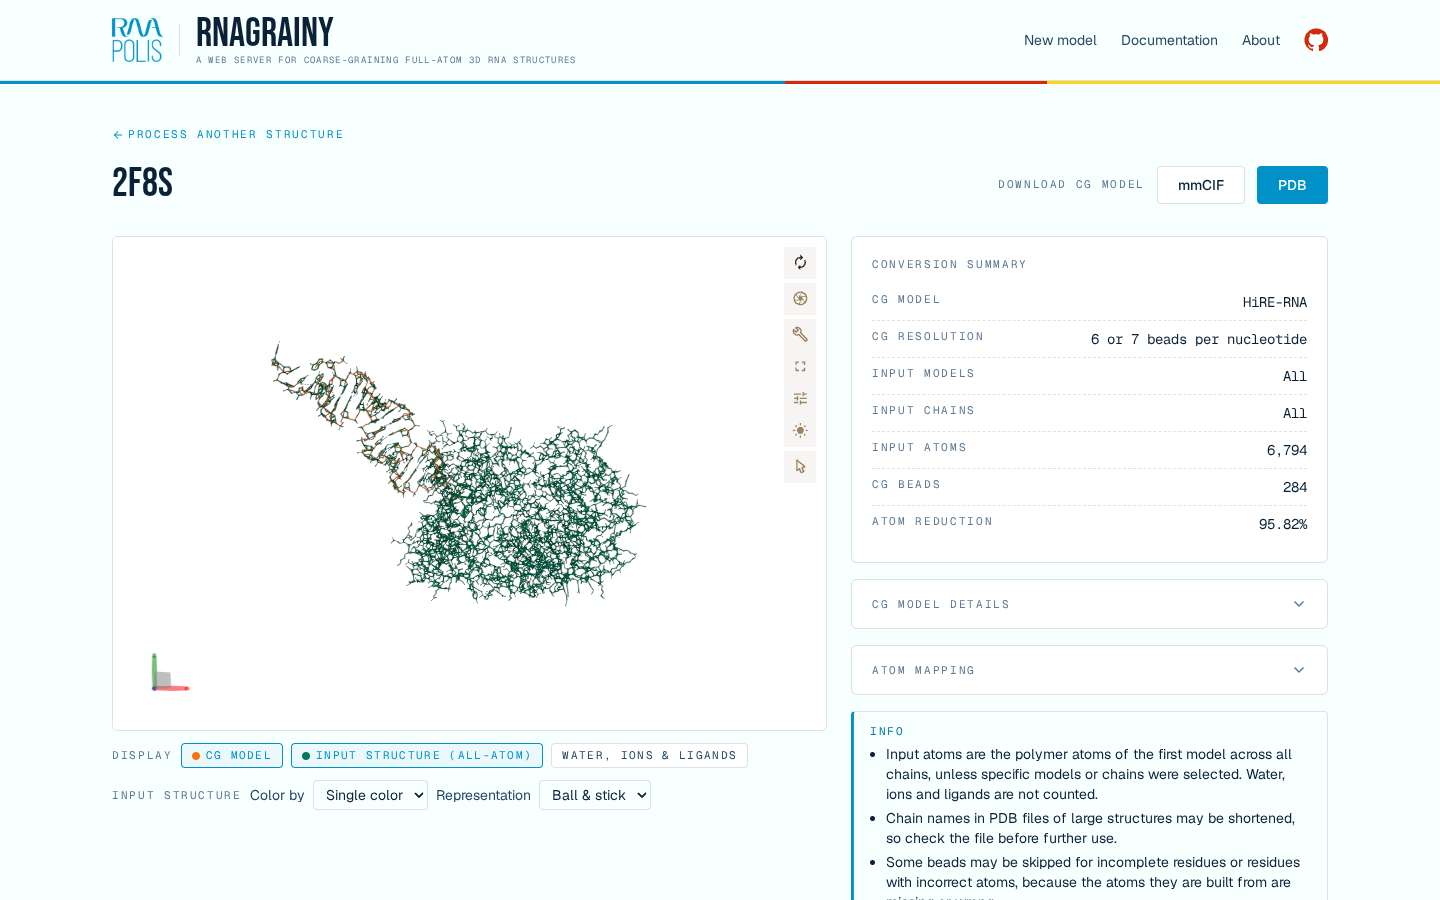
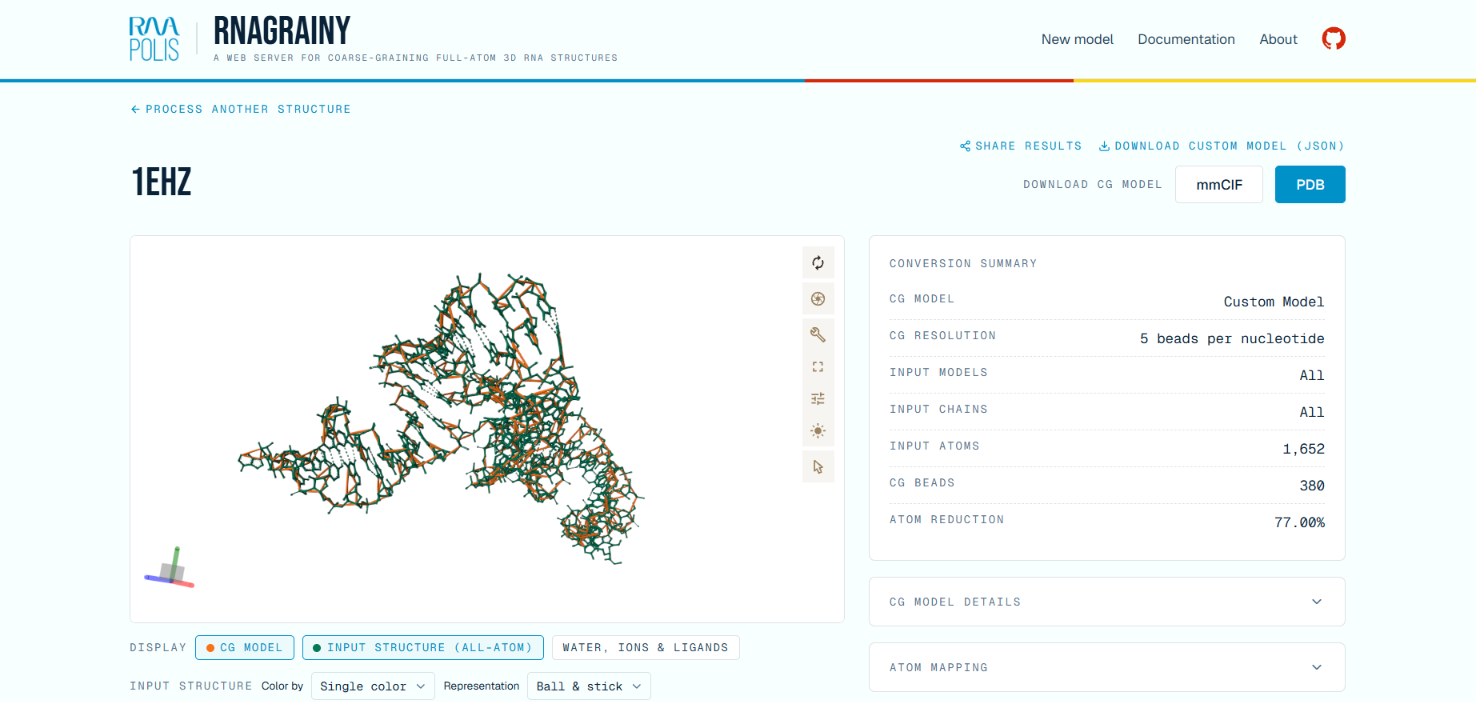
Update docs screenshots

diff --git a/README.md b/README.md
@@ -60,17 +60,6 @@ Detailed descriptions, mapping rules, and references are available in the
 
 ![RNAgrainy model documentation](docs/screenshots/model-documentation.png)
 
-### Structure processing
-
-![RNAgrainy structure processing documentation](docs/screenshots/structure-processing.png)
-
-### Custom model download
-
-![Download the custom model definition from the results page](docs/screenshots/custom-model-download.png)
-
-### Conversion report
-
-![Conversion report with estimated atoms and a skipped nucleotide](docs/screenshots/conversion-report.png)
 
 ## Public API
 
